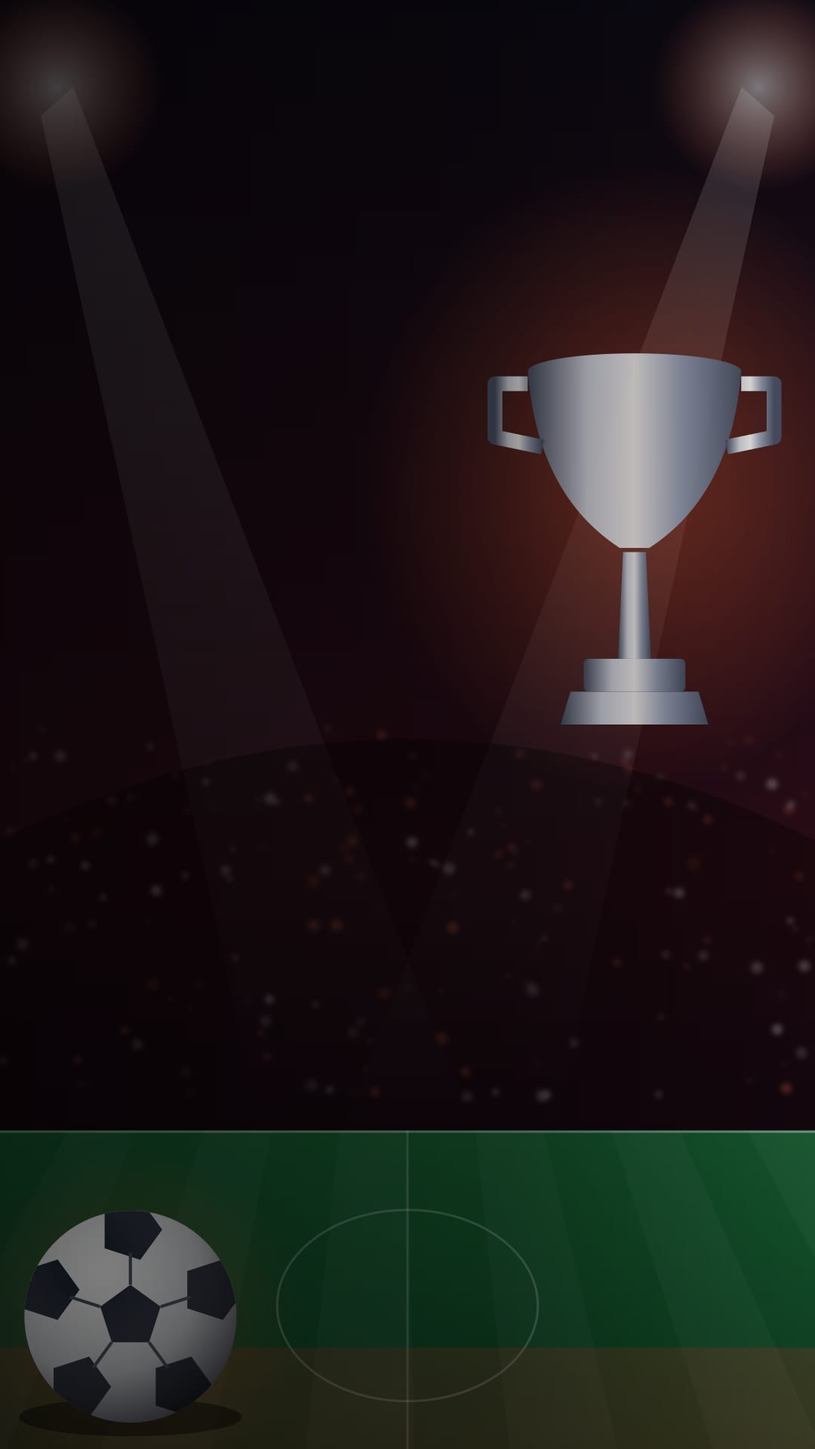
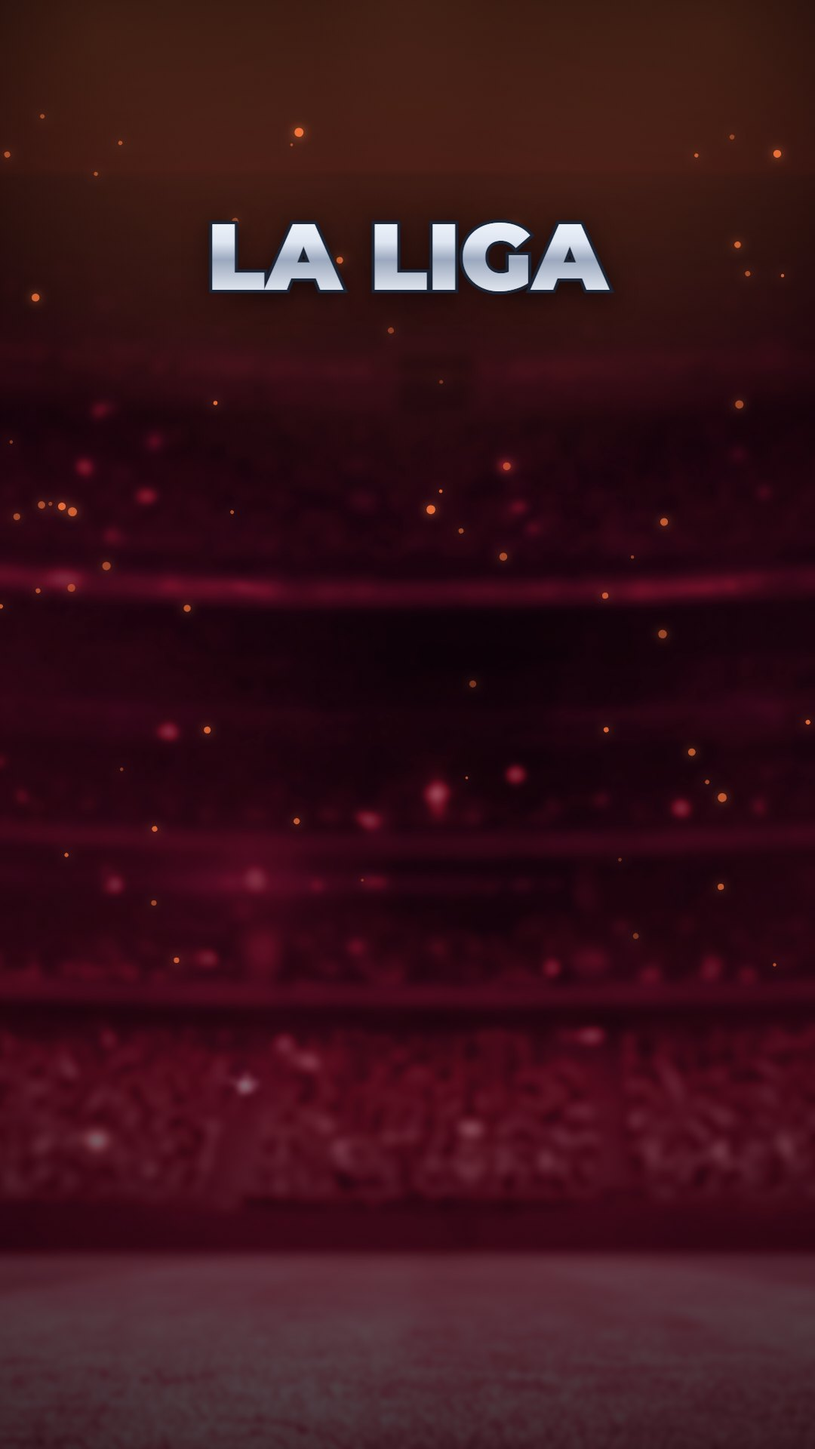
feat(esportes): fundos no estilo da referência — estádio iluminado, taça original e nome da competição (Player 5.6.4) — F-88
- Arte 16:9 e 9:16 por campeonato: estádio da referência, confete/estrelas, taças enviadas pelo proprietário
  (Copa do Brasil e Brasileirão) recortadas localmente, letreiro dourado/prateado; sem marcas de terceiros.
- 20261258: fundo_com_titulo -> o widget esconde o título escrito e começa o conteúdo abaixo do cabeçalho da arte.
- Web e Player 5.6.4 (551) respeitam o cabeçalho da arte.

diff --git a/docs/engineering/evidence/F-86_esportes_v2/gerador_fundos_v2.html b/docs/engineering/evidence/F-86_esportes_v2/gerador_fundos_v2.html
@@ -1,0 +1,135 @@
+<!doctype html>
+<meta charset="utf-8">
+<title>Fundos Esportes v2</title>
+<link rel="stylesheet" href="https://fonts.googleapis.com/css2?family=Montserrat:ital,wght@0,800;0,900;1,900&display=swap">
+<body style="background:#222;color:#fff;font-family:system-ui">
+<pre id="log">iniciando…</pre>
+<script>
+// Fundos do widget Esportes no estilo da referência do proprietário (estádio iluminado + taça + nome da competição no alto).
+// Estádio: recorte da própria referência (metade dourada = Copa, metade azul = Brasileirão). Taças: fotos enviadas pelo
+// proprietário, recortadas localmente. Sem textos/marcas de terceiros. Saída: JPG 1920x1080 e 1080x1920.
+const log = (t) => { document.getElementById('log').textContent += '\n' + t; };
+const carregar = (src) => new Promise((ok, erro) => { const i = new Image(); i.onload = () => ok(i); i.onerror = () => erro(new Error(src)); i.src = src; });
+function rng(seed) { let s = seed; return () => (s = (s * 16807) % 2147483647) / 2147483647; }
+
+const TEMAS = {
+  'copa-do-brasil':   { placa: 'dourada', taca: 'copa', linhas: ['COPA DO BRASIL'], estilo: 'ouro', particula: 'confete', tinta: null, brilho: '#ffcf4d' },
+  brasileirao:        { placa: 'azul', taca: 'brasileirao', linhas: ['BRASILEIRÃO', 'SÉRIE A'], estilo: 'prata', particula: 'estrela', tinta: null, brilho: '#5aa9ff' },
+  'premier-league':   { placa: 'azul', taca: null, linhas: ['PREMIER LEAGUE'], estilo: 'prata', particula: 'faisca', tinta: '#6a1bb0', brilho: '#e0409a' },
+  'la-liga':          { placa: 'azul', taca: null, linhas: ['LA LIGA'], estilo: 'prata', particula: 'faisca', tinta: '#c0162c', brilho: '#ff7a3d' },
+  'champions-league': { placa: 'azul', taca: null, linhas: ['CHAMPIONS LEAGUE'], estilo: 'prata', particula: 'estrela', tinta: '#0b2d8a', brilho: '#b9d4ff' },
+};
+
+function gradienteTexto(ctx, estilo, y0, y1) {
+  const g = ctx.createLinearGradient(0, y0, 0, y1);
+  if (estilo === 'ouro') { g.addColorStop(0, '#fff3b8'); g.addColorStop(0.35, '#f5c542'); g.addColorStop(0.62, '#c98d12'); g.addColorStop(1, '#ffe08a'); }
+  else { g.addColorStop(0, '#ffffff'); g.addColorStop(0.45, '#dfe6f2'); g.addColorStop(0.62, '#9aa7bd'); g.addColorStop(1, '#f4f7fc'); }
+  return g;
+}
+
+function texto(ctx, t, x, y, tam, estilo, alinhar) {
+  ctx.save();
+  ctx.font = `900 ${tam}px Montserrat`;
+  ctx.textAlign = alinhar; ctx.textBaseline = 'alphabetic';
+  ctx.shadowColor = 'rgba(0,0,0,0.75)'; ctx.shadowBlur = tam * 0.25; ctx.shadowOffsetY = tam * 0.06;
+  ctx.lineWidth = Math.max(3, tam * 0.07); ctx.strokeStyle = estilo === 'ouro' ? '#3a2600' : '#1b2536';
+  ctx.strokeText(t, x, y);
+  ctx.shadowColor = 'transparent';
+  ctx.fillStyle = gradienteTexto(ctx, estilo, y - tam, y + tam * 0.1);
+  ctx.fillText(t, x, y);
+  ctx.restore();
+}
+
+function particulas(ctx, tipo, W, H, cor, seed) {
+  const r = rng(seed);
+  const n = tipo === 'confete' ? 90 : 60;
+  for (let i = 0; i < n; i++) {
+    const x = r() * W, y = H * (0.08 + r() * 0.6), s = (tipo === 'confete' ? 6 : 5) + r() * 12;
+    ctx.save(); ctx.translate(x, y); ctx.rotate(r() * Math.PI); ctx.globalAlpha = 0.35 + r() * 0.55;
+    if (tipo === 'confete') { ctx.fillStyle = r() > 0.25 ? '#f2c13a' : '#fff1b0'; ctx.fillRect(-s / 2, -s / 4, s, s / 2); }
+    else if (tipo === 'estrela') {
+      ctx.fillStyle = cor; ctx.shadowColor = cor; ctx.shadowBlur = 12; ctx.beginPath();
+      for (let k = 0; k < 10; k++) { const a = (k * Math.PI) / 5 - Math.PI / 2, rr = k % 2 ? s * 0.42 : s; ctx.lineTo(Math.cos(a) * rr, Math.sin(a) * rr); }
+      ctx.closePath(); ctx.fill();
+    } else { ctx.fillStyle = cor; ctx.shadowColor = cor; ctx.shadowBlur = 14; ctx.beginPath(); ctx.arc(0, 0, s * 0.35, 0, Math.PI * 2); ctx.fill(); }
+    ctx.restore();
+  }
+}
+
+async function desenhar(slug, tema, W, H, ref, tacas) {
+  const c = document.createElement('canvas'); c.width = W; c.height = H;
+  const ctx = c.getContext('2d');
+  const vertical = H > W;
+  // 1) estádio da referência (só a faixa sem textos), cobrindo a tela, levemente desfocado
+  const sx = tema.placa === 'dourada' ? 0 : 688, sy = 262, sw = 688, sh = 428;
+  const esc = Math.max(W / sw, H / sh);
+  const dw = sw * esc, dh = sh * esc;
+  ctx.filter = `blur(${vertical ? 3 : 2.5}px) saturate(1.15) contrast(1.05)`;
+  ctx.drawImage(ref, sx, sy, sw, sh, (W - dw) / 2, H - dh + (vertical ? dh * 0.12 : dh * 0.06), dw, dh);
+  ctx.filter = 'none';
+  // céu escuro acima da arquibancada (a placa não cobre o topo na vertical)
+  const ceu = ctx.createLinearGradient(0, 0, 0, H * (vertical ? 0.42 : 0.3));
+  ceu.addColorStop(0, tema.placa === 'dourada' ? '#0d0a04' : '#030b1f'); ceu.addColorStop(1, 'rgba(0,0,0,0)');
+  ctx.fillStyle = ceu; ctx.fillRect(0, 0, W, H);
+  // 2) cor da competição (europeias: a placa azul ganha a cor de cada uma)
+  if (tema.tinta) { ctx.save(); ctx.globalCompositeOperation = 'color'; ctx.globalAlpha = 0.75; ctx.fillStyle = tema.tinta; ctx.fillRect(0, 0, W, H); ctx.restore(); }
+  // 3) luz dos refletores (brilho no alto) + escurecimento para leitura
+  ctx.save(); ctx.globalCompositeOperation = 'screen';
+  for (const [fx, fy, fr] of [[0.12, 0.02, 0.55], [0.88, 0.02, 0.55], [0.5, 0.0, 0.7]]) {
+    const g = ctx.createRadialGradient(W * fx, H * fy, 0, W * fx, H * fy, Math.max(W, H) * fr * 0.5);
+    g.addColorStop(0, tema.brilho + '66'); g.addColorStop(1, tema.brilho + '00'); ctx.fillStyle = g; ctx.fillRect(0, 0, W, H);
+  }
+  ctx.restore();
+  const leitura = ctx.createLinearGradient(0, 0, 0, H);
+  leitura.addColorStop(0, 'rgba(0,0,0,0.32)'); leitura.addColorStop(0.35, 'rgba(0,0,0,0.18)'); leitura.addColorStop(0.75, 'rgba(0,0,0,0.35)'); leitura.addColorStop(1, 'rgba(0,0,0,0.55)');
+  ctx.fillStyle = leitura; ctx.fillRect(0, 0, W, H);
+  const vinheta = ctx.createRadialGradient(W / 2, H / 2, Math.min(W, H) * 0.35, W / 2, H / 2, Math.max(W, H) * 0.75);
+  vinheta.addColorStop(0, 'rgba(0,0,0,0)'); vinheta.addColorStop(1, 'rgba(0,0,0,0.6)');
+  ctx.fillStyle = vinheta; ctx.fillRect(0, 0, W, H);
+  // 4) partículas (confete dourado / estrelas / faíscas), como na referência
+  particulas(ctx, tema.particula, W, H, tema.brilho, slug.length * 97 + W);
+  // 5) cabeçalho: taça + nome da competição (faixa [0.10H, 0.31H] na horizontal; [0.07H, 0.28H] na vertical)
+  const taca = tema.taca ? tacas[tema.taca] : null;
+  if (!vertical) {
+    const topo = H * 0.1, altura = H * 0.24;
+    let xTexto = W * 0.035;
+    if (taca) {
+      const th = altura, tw = taca.width * (th / taca.height);
+      ctx.save(); ctx.shadowColor = tema.brilho; ctx.shadowBlur = 45; ctx.drawImage(taca, W * 0.03, topo, tw, th); ctx.restore();
+      xTexto = W * 0.03 + tw + W * 0.02;
+    }
+    const tamA = tema.linhas.length > 1 ? H * 0.105 : H * 0.12;
+    const yA = topo + (tema.linhas.length > 1 ? altura * 0.58 : altura * 0.72);
+    texto(ctx, tema.linhas[0], xTexto, yA, tamA, tema.estilo, 'left');
+    if (tema.linhas[1]) texto(ctx, tema.linhas[1], xTexto + 4, yA + H * 0.075, H * 0.055, 'prata', 'left');
+  } else {
+    const topo = H * 0.07;
+    let yTexto = H * 0.2;
+    if (taca) {
+      const th = H * 0.14, tw = taca.width * (th / taca.height);
+      ctx.save(); ctx.shadowColor = tema.brilho; ctx.shadowBlur = 50; ctx.drawImage(taca, (W - tw) / 2, topo, tw, th); ctx.restore();
+      yTexto = topo + th + H * 0.05;
+    }
+    const tamA = Math.min(W * 0.115, (W * 0.9) / (tema.linhas[0].length * 0.62));
+    texto(ctx, tema.linhas[0], W / 2, yTexto, tamA, tema.estilo, 'center');
+    if (tema.linhas[1]) texto(ctx, tema.linhas[1], W / 2, yTexto + H * 0.035, W * 0.055, 'prata', 'center');
+  }
+  return new Promise((ok) => c.toBlob(ok, 'image/jpeg', 0.86));
+}
+
+(async () => {
+  try {
+    await document.fonts.load('900 80px Montserrat');
+    const ref = await carregar('/ref3.png');
+    const tacas = { copa: await carregar('/recortes/copa_ref_recorte.png'), brasileirao: await carregar('/recortes/brasileirao_ref_recorte.png') };
+    for (const [slug, tema] of Object.entries(TEMAS)) {
+      for (const [suf, W, H] of [['h', 1920, 1080], ['v', 1080, 1920]]) {
+        const blob = await desenhar(slug, tema, W, H, ref, tacas);
+        await fetch(`/salvar?nome=${slug}-${suf}.jpg`, { method: 'POST', body: blob });
+        log(`${slug}-${suf}: ${blob.size} bytes`);
+      }
+    }
+    log('FIM');
+  } catch (e) { log('ERRO ' + e.message); }
+})();
+</script>

diff --git a/native-android-player/app/src/main/java/com/antigravity/player/util/NativeWidgetEngine.kt b/native-android-player/app/src/main/java/com/antigravity/player/util/NativeWidgetEngine.kt
@@ -158,7 +158,7 @@ object NativeWidgetEngine {
                 WidgetKind.SOCIAL -> buildSocial(context, spec, background, w, h, base, payload as? PostPayload)
                 WidgetKind.YOUTUBE -> buildYoutube(context, spec, background, w, h, base)
                 // v2 (F-86) quando o servidor manda a janela por campeonato; senão, a lista antiga
-                WidgetKind.SPORTS -> (payload as? EsportesPayload)?.let { buildSportsV2(context, spec, background, base, it) }
+                WidgetKind.SPORTS -> (payload as? EsportesPayload)?.let { buildSportsV2(context, spec, background, w, h, base, it) }
                     ?: buildSports(context, spec, background, w, h, base)
                 WidgetKind.UNKNOWN -> buildMessage(context, background, w, h, base, "Widget não suportado (${spec.rawType})")
             }
@@ -1284,7 +1284,7 @@ object NativeWidgetEngine {
      * ao lado de cada time. 3 páginas de 8 s por exibição (para na 3ª); o cursor é gravado a cada página mostrada.
      * Mesma composição do painel (src/components/player/SportsWidget.tsx).
      */
-    private fun buildSportsV2(context: Context, spec: WidgetSpec, bg: Bitmap?, base: Float, dados: EsportesPayload): View {
+    private fun buildSportsV2(context: Context, spec: WidgetSpec, bg: Bitmap?, w: Int, h: Int, base: Float, dados: EsportesPayload): View {
         val cores = spec.cores ?: CoresWidget.PADRAO
         val creditos = spec.esportes?.creditos ?: "Dados: openfootball (CC0) · Wikipédia (CC BY-SA)"
         val tema = bg == null && dados.fundos.isNotEmpty()
@@ -1328,7 +1328,13 @@ object NativeWidgetEngine {
                 val f = dados.fundos[dados.paginas[indice].slug]
                 fundoTema.setImageBitmap(f); fundoTema.visibility = if (f != null) View.VISIBLE else View.INVISIBLE
             }
-            area.addView(paginaEsportes(context, dados.paginas[indice], dados.hoje, dados.escudos, base, cores, tema),
+            // Arte com a taça e o nome da competição (F-88): sem título escrito; o conteúdo começa abaixo do cabeçalho da arte.
+            val slugPagina = dados.paginas[indice].slug
+            val tituloNaArte = tema && dados.fundos[slugPagina] != null && spec.esportes?.competicoes?.firstOrNull { it.slug == slugPagina }?.fundoComTitulo == true
+            val vertical = h > w * 1.2f
+            area.addView(paginaEsportes(context, dados.paginas[indice], dados.hoje, dados.escudos, base, cores, tema,
+                espacoTitulo = if (tituloNaArte) px(h * (if (vertical) 0.17f else 0.21f)) else 0,
+                escala = if (tituloNaArte && !vertical) 0.86f else 1f),
                 FrameLayout.LayoutParams(ViewGroup.LayoutParams.MATCH_PARENT, ViewGroup.LayoutParams.MATCH_PARENT))
             contador.text = if (total > 1) "${indice + 1}/$total" else ""
             gravarCursorEsportes(context.applicationContext, spec.widgetId, EsportesPaginas.cursorDepois(indice, total, dados.hoje))
@@ -1355,8 +1361,21 @@ object NativeWidgetEngine {
         return root
     }
 
-    private fun paginaEsportes(context: Context, p: PaginaEsportes, hoje: String, escudos: Map<String, Bitmap>, base: Float, cores: CoresWidget, escuro: Boolean = false): View {
+    private fun paginaEsportes(
+        context: Context, p: PaginaEsportes, hoje: String, escudos: Map<String, Bitmap>, base: Float, cores: CoresWidget,
+        escuro: Boolean = false, espacoTitulo: Int = 0, escala: Float = 1f
+    ): View {
         val pagina = LinearLayout(context).apply { orientation = LinearLayout.VERTICAL }
+        if (espacoTitulo > 0) {
+            pagina.addView(View(context), LinearLayout.LayoutParams(ViewGroup.LayoutParams.MATCH_PARENT, espacoTitulo))
+            pagina.addView(text(context, base * 0.03f, bold = true, color = Color.argb(230, 255, 255, 255)).apply {
+                text = "RESULTADOS E PRÓXIMOS JOGOS"; gravity = Gravity.START; letterSpacing = 0.18f
+            }, lp())
+            val corpoArte = LinearLayout(context).apply { orientation = LinearLayout.VERTICAL; gravity = Gravity.CENTER_VERTICAL }
+            pagina.addView(corpoArte, LinearLayout.LayoutParams(ViewGroup.LayoutParams.MATCH_PARENT, 0, 1f))
+            secoesEsportes(context, corpoArte, p, hoje, escudos, base * escala, cores, escuro)
+            return pagina
+        }
         val titulo = LinearLayout(context).apply { orientation = LinearLayout.HORIZONTAL }
         titulo.addView(View(context).apply { setBackgroundColor(cores.selo) },
             LinearLayout.LayoutParams(px(base * 0.009f).coerceAtLeast(3), ViewGroup.LayoutParams.MATCH_PARENT))
@@ -1372,6 +1391,11 @@ object NativeWidgetEngine {
 
         val corpo = LinearLayout(context).apply { orientation = LinearLayout.VERTICAL; gravity = Gravity.CENTER_VERTICAL }
         pagina.addView(corpo, LinearLayout.LayoutParams(ViewGroup.LayoutParams.MATCH_PARENT, 0, 1f))
+        secoesEsportes(context, corpo, p, hoje, escudos, base, cores, escuro)
+        return pagina
+    }
+
+    private fun secoesEsportes(context: Context, corpo: LinearLayout, p: PaginaEsportes, hoje: String, escudos: Map<String, Bitmap>, base: Float, cores: CoresWidget, escuro: Boolean) {
         fun secao(rotulo: String, jogos: List<JogoEsporte>, encerrado: Boolean, topo: Int) {
             if (jogos.isEmpty()) return
             val cab = LinearLayout(context).apply { orientation = LinearLayout.HORIZONTAL; gravity = Gravity.CENTER_VERTICAL }
@@ -1385,7 +1409,6 @@ object NativeWidgetEngine {
         }
         secao("RESULTADOS", p.resultados, true, 0)
         secao("PRÓXIMOS JOGOS", p.proximos, false, if (p.resultados.isEmpty()) 0 else px(base * 0.018f))
-        return pagina
     }
 
     private fun linhaJogoV2(context: Context, j: JogoEsporte, hoje: String, escudos: Map<String, Bitmap>, base: Float, cores: CoresWidget, encerrado: Boolean, escuro: Boolean = false): View {

diff --git a/src/components/player/SportsWidget.tsx b/src/components/player/SportsWidget.tsx
@@ -134,6 +134,8 @@ export function SportsWidget({ config, dados: dadosServidor, backgroundImage, co
   // Fundo: o escolhido no widget; senão, o do campeonato da página (estádio, gramado, bola e taça).
   const fundoTema = backgroundImage ? null : (vertical ? comp?.fundoV : comp?.fundoH) ?? null;
   const temaAtivo = !!fundoTema;
+  // A arte do campeonato já traz a taça e o nome no alto (F-88): o título escrito sai e o conteúdo começa abaixo dela.
+  const tituloNaArte = temaAtivo && !!comp?.fundoComTitulo;
 
   return (
     <div
@@ -167,11 +169,19 @@ export function SportsWidget({ config, dados: dadosServidor, backgroundImage, co
 
       {pagina ? (
         <div key={`${indice}-${pagina.slug}`} className="relative z-10 mt-[1.6cqmin] flex min-h-0 flex-1 flex-col animate-in fade-in duration-300">
-          <div className="border-l-[0.9cqmin] pl-[1.8cqmin]" style={{ borderColor: c.selo }}>
-            <h2 className="text-[6.2cqmin] font-black uppercase leading-none tracking-wide" data-testid="sports-competicao">{pagina.competicao}</h2>
-            <p className="mt-[0.8cqmin] text-[3.2cqmin] font-semibold text-white/85" data-testid="sports-subtitulo">Resultados e próximos jogos</p>
-          </div>
-          <div className="mt-[1.8cqmin] flex min-h-0 flex-1 flex-col justify-center gap-[1.6cqmin]">
+          {tituloNaArte ? (
+            <div data-testid="sports-titulo-na-arte">
+              <h2 className="sr-only" data-testid="sports-competicao">{pagina.competicao}</h2>
+              <div style={{ height: vertical ? '17cqh' : '21cqh' }} />
+              <p className="text-[3cqmin] font-bold uppercase tracking-[0.18em] text-white/90" data-testid="sports-subtitulo">Resultados e próximos jogos</p>
+            </div>
+          ) : (
+            <div className="border-l-[0.9cqmin] pl-[1.8cqmin]" style={{ borderColor: c.selo }}>
+              <h2 className="text-[6.2cqmin] font-black uppercase leading-none tracking-wide" data-testid="sports-competicao">{pagina.competicao}</h2>
+              <p className="mt-[0.8cqmin] text-[3.2cqmin] font-semibold text-white/85" data-testid="sports-subtitulo">Resultados e próximos jogos</p>
+            </div>
+          )}
+          <div className="mt-[1.8cqmin] flex min-h-0 flex-1 flex-col justify-center gap-[1.6cqmin]" style={tituloNaArte && !vertical ? { zoom: 0.86 } : undefined}>
             {pagina.resultados.length > 0 && (
               <Secao titulo="RESULTADOS" cor={c.selo}>
                 {pagina.resultados.map((j) => <LinhaJogo key={chaveJogo(j)} j={j} hoje={hoje} cores={c} escuro={temaAtivo} encerrado />)}

diff --git a/native-android-player/app/src/main/java/com/antigravity/player/widget/Esportes.kt b/native-android-player/app/src/main/java/com/antigravity/player/widget/Esportes.kt
@@ -3,6 +3,7 @@ package com.antigravity.player.widget
 import kotlinx.serialization.json.JsonArray
 import kotlinx.serialization.json.JsonObject
 import kotlinx.serialization.json.JsonPrimitive
+import kotlinx.serialization.json.booleanOrNull
 import kotlinx.serialization.json.intOrNull
 import java.text.SimpleDateFormat
 import java.util.Calendar
@@ -34,7 +35,11 @@ data class JogoEsporte(
 )
 
 /** fundoH/fundoV (F-87): arte do campeonato (estádio, gramado, bola, taça) em 16:9 e 9:16; null = fundo de marca. */
-data class CompeticaoEsporte(val slug: String, val nome: String, val ordem: Int, val fundoH: String? = null, val fundoV: String? = null)
+data class CompeticaoEsporte(
+    val slug: String, val nome: String, val ordem: Int, val fundoH: String? = null, val fundoV: String? = null,
+    /** F-88: a arte já traz a taça e o nome no alto -> o título escrito sai e o conteúdo começa abaixo dela. */
+    val fundoComTitulo: Boolean = false
+)
 
 /**
  * layout 2 (F-86): janela D-3..D+9 por campeonato (o Player recorta pelo próprio relógio). layout 1 = lista antiga (modo).
@@ -83,7 +88,8 @@ object EsportesText {
             val c = e as? JsonObject ?: return@mapNotNull null
             val slug = s(c, "slug") ?: return@mapNotNull null
             CompeticaoEsporte(slug, s(c, "nome") ?: slug, i(c, "ordem") ?: 99,
-                s(c, "fundoH")?.takeIf { it.startsWith("https://") }, s(c, "fundoV")?.takeIf { it.startsWith("https://") })
+                s(c, "fundoH")?.takeIf { it.startsWith("https://") }, s(c, "fundoV")?.takeIf { it.startsWith("https://") },
+                (c["fundoComTitulo"] as? JsonPrimitive)?.booleanOrNull == true)
         }
         return DadosEsportes(
             modo = s(o, "modo")?.takeIf { it in setOf("resultados", "proximos", "hoje") } ?: "resultados",

diff --git a/native-android-player/app/src/test/java/com/antigravity/player/EsportesPaginasTest.kt b/native-android-player/app/src/test/java/com/antigravity/player/EsportesPaginasTest.kt
@@ -86,7 +86,7 @@ class EsportesPaginasTest {
 
     @Test fun `le a janela v2 com escudos e competicoes do servidor`() {
         val json = Json.parseToJsonElement(
-            """{"modo":"resultados","layout":2,"jogos":[],"competicoes":[{"slug":"brasileirao","nome":"Brasileirão Série A","ordem":0,"fundoH":"https://sitesobremidia.vercel.app/esportes/fundos/brasileirao-h.jpg","fundoV":"http://inseguro/v.jpg"}],
+            """{"modo":"resultados","layout":2,"jogos":[],"competicoes":[{"slug":"brasileirao","nome":"Brasileirão Série A","ordem":0,"fundoH":"https://sitesobremidia.vercel.app/esportes/fundos/brasileirao-h.jpg","fundoV":"http://inseguro/v.jpg","fundoComTitulo":true}],
                "janela":[{"slug":"brasileirao","competicao":"Brasileirão Série A","codigo":"BSA","ordemCompeticao":0,"mandante":"Flamengo","visitante":"Palmeiras",
                "placarMandante":2,"placarVisitante":1,"status":"FINISHED","data":"2026-10-07","hora":"19:00","kickoffUtc":"2026-10-07T22:00:00+00:00",
                "escudoMandante":"https://x.supabase.co/storage/v1/object/public/escudos-times/flamengo.png","escudoVisitante":"http://inseguro/p.png"}]}"""
@@ -96,6 +96,7 @@ class EsportesPaginasTest {
         assertEquals("Brasileirão Série A", d.competicoes.single().nome)
         assertEquals("https://sitesobremidia.vercel.app/esportes/fundos/brasileirao-h.jpg", d.competicoes.single().fundoH)
         assertEquals(null, d.competicoes.single().fundoV) // só https
+        assertEquals(true, d.competicoes.single().fundoComTitulo)
         val j = d.janela.single()
         assertEquals("https://x.supabase.co/storage/v1/object/public/escudos-times/flamengo.png", j.escudoMandante)
         assertEquals(null, j.escudoVisitante) // só https

diff --git a/src/tests/unit/esportesWidget.test.tsx b/src/tests/unit/esportesWidget.test.tsx
@@ -159,3 +159,23 @@ describe('Esportes v2 — tudo aparece junto (F-87)', () => {
     expect(screen.getByTestId('sports-fundo-tema')).toHaveAttribute('src', 'https://teste.exemplo/fundo-brasileirao-h.jpg');
   });
 });
+
+describe('Esportes v2 — fundo com a taça e o nome da competição (F-88)', () => {
+  beforeEach(() => { vi.useFakeTimers({ toFake: ['setTimeout', 'clearTimeout', 'Date'] }); vi.setSystemTime(new Date('2026-10-10T12:00:00-03:00')); localStorage.clear(); });
+  afterEach(() => { vi.useRealTimers(); localStorage.clear(); });
+
+  it('quando a arte já traz o nome, o título escrito sai (sem nome duplicado) e o subtítulo continua', () => {
+    const d = v2(JANELA);
+    d.competicoes = d.competicoes.map((c) => ({ ...c, fundoH: `https://teste.exemplo/${c.slug}-h.jpg`, fundoV: `https://teste.exemplo/${c.slug}-v.jpg`, fundoComTitulo: true }));
+    render(<SportsWidget config={{}} dados={d} widgetId="w3" modo="player" />);
+    expect(screen.getByTestId('sports-titulo-na-arte')).toBeInTheDocument();
+    expect(screen.getByTestId('sports-competicao')).toHaveClass('sr-only');
+    expect(screen.getByTestId('sports-subtitulo')).toHaveTextContent('Resultados e próximos jogos');
+  });
+
+  it('sem a arte (ou com fundo próprio do widget), o título escrito continua', () => {
+    render(<SportsWidget config={{}} dados={v2(JANELA)} widgetId="w4" modo="player" />);
+    expect(screen.queryByTestId('sports-titulo-na-arte')).toBeNull();
+    expect(screen.getByTestId('sports-competicao')).not.toHaveClass('sr-only');
+  });
+});

diff --git a/src/lib/esportes.ts b/src/lib/esportes.ts
@@ -26,7 +26,7 @@ export interface DadosEsportes {
   modo: 'resultados' | 'proximos' | 'hoje';
   fuso: string;
   geradoEm: string;
-  competicoes: Array<{ slug: string; nome: string; codigo: string; cobertura: 'FULL' | 'PARTIAL' | 'UNAVAILABLE'; ordem?: number; fundoH?: string | null; fundoV?: string | null }>;
+  competicoes: Array<{ slug: string; nome: string; codigo: string; cobertura: 'FULL' | 'PARTIAL' | 'UNAVAILABLE'; ordem?: number; fundoH?: string | null; fundoV?: string | null; fundoComTitulo?: boolean }>;
   jogos: JogoEsporte[];
   creditos: string;
   /** v2 (F-86): jogos de D-3 a D+9 com escudos; o widget recorta resultados (D-3..D-1) e próximos (hoje..D+2). */

diff --git a/docs/engineering/FINDINGS_LEDGER.md b/docs/engineering/FINDINGS_LEDGER.md
@@ -890,3 +890,20 @@ Cadeia auditada: `ScreenDetails` (Lista de Reprodução) e `PlaylistItemsDialog`
   - Player 5.6.3 (`EsportesRenderTest`, cache limpo): fundo do campeonato e todos os escudos na mesma exibição, em 16:9 e 9:16.
   - Arte revisada (sem a caixa do refletor atrás do cabeçalho), com `?v=2` nas URLs para renovar o cache dos aparelhos.
[1 lines of base64/hex data omitted]
+
+### F-88 — Fundos do widget Esportes no estilo da referência do proprietário (taça original + nome da competição) — DONE (Player 5.6.4)
+- **Pedido:** fundo "igual à terceira imagem" (estádio iluminado, taça original e nome da competição no alto), usando as fotos das taças enviadas pelo proprietário (Copa do Brasil e Brasileirão).
+- **Montagem** (gerador `evidence/F-86_esportes_v2/gerador_fundos_v2.html`, canvas no navegador, 1920×1080 e 1080×1920):
+  - o estádio é a própria faixa da referência (metade dourada = Copa, metade azul = Brasileirão), desfocado para esconder a baixa resolução;
+  - brilho dos refletores e partículas iguais aos da referência (confete dourado na Copa, estrelas azuis no Brasileirão);
+  - as taças das fotos do proprietário foram recortadas localmente, no navegador, sem enviar a imagem a nenhum serviço;
+  - nome em letreiro Montserrat 900: dourado na Copa, prateado no Brasileirão, com "SÉRIE A".
+- **Removido da referência:** a marca "NC NEWS" e os textos de terceiros ("Grandes competições…", "Viva o futebol brasileiro!", "Brasileirão é paixão!"). Não se publica marca de outra empresa nas telas.
+- **Premier League, La Liga e Champions:** mesmo estilo com a cor de cada uma, só com o nome, até o proprietário enviar as taças.
+- **Widget** (migração `20261258`, aditiva; `competicoes[].fundoComTitulo`):
+  - quando a arte traz o nome, o título escrito sai (sem nome duplicado) e o conteúdo começa abaixo do cabeçalho da arte;
+  - "Resultados e próximos jogos" continua visível;
+  - na horizontal, as linhas ficam 14% menores para caber abaixo do cabeçalho;
+  - vale para painel, Player web e Player 5.6.4 (551); os Players 5.6.3 ignoram o campo.
+- **Direitos:** as fotos das taças e a arte de referência foram fornecidas pelo proprietário, que responde pelo direito de uso comercial.
+- **Prova:** web 160/1620 (+2 testes do título na arte); JVM 205/205 (leitura de `fundoComTitulo`).
